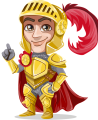
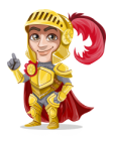
Added: -Tavern shop -Dwarf giving you quest -Game currency and more...
Needs to be added:
-Forge shop
-Arena
-Quest where you need to click on red ball which coords are random generated
-10 more fight locations with one boss fight
-More items
-Music and sound effects
-Full screen mode

Fixed:
-Few bugs
-Bg images
-Img and icon layouts

Needs to be fixed:
-Icons and icon layout
-Music and sound effects don't change and overlap themselves whenever you play more sound effects at once.
-consecutiveText() method

diff --git a/src/cz/reindl/game/ui/UserInterface.java b/src/cz/reindl/game/ui/UserInterface.java
@@ -81,7 +81,7 @@ public class UserInterface {
 
     public Font setFont(Font font, String pathName) {
         try {
-            font = Font.createFont(Font.TRUETYPE_FONT, new File(path(pathName))).deriveFont(30f);
+            font = Font.createFont(Font.TRUETYPE_FONT, new File(path(pathName))).deriveFont(25f);
             GraphicsEnvironment ge = GraphicsEnvironment.getLocalGraphicsEnvironment();
             ge.registerFont(Font.createFont(Font.TRUETYPE_FONT, new File(path(pathName))));
         } catch (IOException | FontFormatException e) {
@@ -103,7 +103,7 @@ public class UserInterface {
 
         textMessage = new JTextArea();
         textMessage.setText("");
-        textMessage.setBounds(120, 540, 760, 60); //Text position relative to frame
+        textMessage.setBounds(120, 515, 760, 120); //Text position relative to frame
         textMessage.setBackground(Color.BLUE); // FIXME: 02.01.2022 Set new color
         textMessage.setForeground(Color.white);
         textMessage.setEditable(false);
@@ -210,7 +210,7 @@ public class UserInterface {
         //Objects
         JLabel labelObject = new JLabel();
         labelObject.setBounds(x, y, width, height);
-        labelObject.setBorder(border);
+        //labelObject.setBorder(border);
         //labelObject.setOpaque(true); //Setting visible background of the object
         //labelObject.setBackground(Color.yellow); //Setting opaques color
 
@@ -480,7 +480,7 @@ public class UserInterface {
         gameBackground(2, "bg/townSquare.png");
         buttonIcon(2, 0, 0, 35, 35, "teleport", "icon/compass.png", "Teleportation map");
         changeScreenButton(2, 710, 150, 50, 50, "mainScreen1", "Forest");
-        gameObject(2, 620, 320, 98, 120, ("entity/Knight2.png"), "Talk", "-", "-", "talkKnight", "-", "-");
+        gameObject(2, 620, 320, 115, 141, ("entity/Knight2.png"), "Talk", "-", "-", "talkKnight", "-", "-");
         gameObject(2, 100, 290, 40, 70, ("object/blankTransparent.png"), "Enter", "Knock", "-", "enterPub", "knockPub", "-");
         gameObject(2, 480, 230, 100, 170, ("object/blankTransparent.png"), "Search", "-", "-", "searchWell", "-", "-");
         gameObject(2, 230, 220, 100, 100, ("object/blankTransparent.png"), "Go", "-", "-", "goTown2", "-", "-");
@@ -493,7 +493,7 @@ public class UserInterface {
         labelBeer = shopObject(3, 150, 200, 75, 75, ("object/beer.png"), "Drink", "-", "-", "drinkBeer", "-", "-");
         labelLiquor = shopObject(3, 230, 270, 75, 75, ("object/beer.png"), "Drink", "-", "-", "drinkLiquor", "-", "-");
         gameObject(3, 560, 100, 150, 208, ("entity/innkeeper.png"), "Menu", "Talk", "-", "tavernMenu", "talkBartender", "-");
-        gameObject(3, 360, 250, 92, 190, ("entity/dwarf.png"), "Talk", "-", "Arena", "getQuest", "-", "-");
+        gameObject(3, 360, 250, 111, 205, ("entity/dwarf.png"), "Talk", "-", "Arena", "getQuest", "-", "-");
 
         //#BLACKSMITH
         gameBackground(7, "bg/blacksmith.png");
@@ -556,8 +556,8 @@ public class UserInterface {
     public void textInfo() {
         textInfo = new JTextArea();
         textInfo.setText("");
-        textInfo.setBounds(120, 600, 760, 60); //Text position relative to frame
-        textInfo.setBackground(Color.RED); // FIXME: 02.01.2022 Set new color
+        textInfo.setBounds(120, 640, 760, 120); //Text position relative to frame
+        textInfo.setBackground(Color.BLACK); // FIXME: 02.01.2022 Set new color
         textInfo.setForeground(Color.white);
         textInfo.setEditable(false);
         textInfo.setLineWrap(true);

diff --git a/src/cz/reindl/game/event/Event.java b/src/cz/reindl/game/event/Event.java
@@ -127,7 +127,7 @@ public class Event {
         switch (questCount) {
             case 0 -> {
                 if (!hub.player.key) {
-                    hub.ui.textMessage.setText("You retrieved a skeleton key! \nYou: ");
+                    hub.ui.textMessage.setText("You retrieved a skeleton key!");
                     hub.ui.consecutiveText("What's the key for?");
                     hub.ui.labelQuestItem.setIcon(hub.ui.jarImg("icon/skeletonKey.png"));
                     hub.player.key = true;
